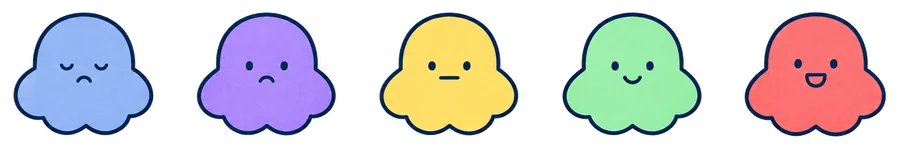
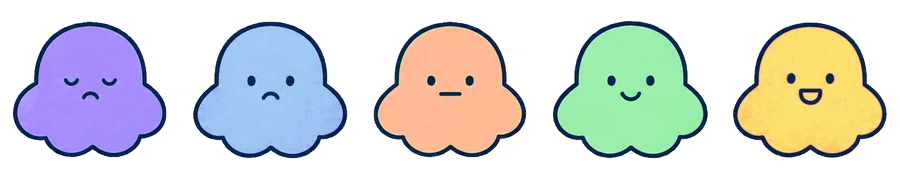
update color tokens: soft purple cards, peach history tile, five-color mood scale

diff --git a/resources/js/Pages/Dashboard.tsx b/resources/js/Pages/Dashboard.tsx
@@ -36,8 +36,8 @@ type ActionTileProps = {
 const TONES = {
   yellow: { card: 'bg-mood-yellow text-text', icon: 'bg-card text-primary', button: 'bg-primary text-on-primary' },
   green: { card: 'bg-mood-green text-text', icon: 'bg-card text-primary', button: 'bg-primary text-on-primary' },
-  brand: { card: 'bg-brand text-on-primary', icon: 'bg-on-primary/20 text-on-primary', button: 'bg-card text-primary' },
-  blue: { card: 'bg-mood-blue text-text', icon: 'bg-card text-primary', button: 'bg-primary text-on-primary' },
+  purple: { card: 'bg-brand-soft text-text', icon: 'bg-card text-primary', button: 'bg-primary text-on-primary' },
+  peach: { card: 'bg-mood-peach text-text', icon: 'bg-card text-primary', button: 'bg-primary text-on-primary' },
 } as const;
 
 /** Kartu aksi menuju fitur. Seluruh kartu adalah tautan. */
@@ -45,7 +45,10 @@ function ActionTile({ icon: Icon, title, description, href, tone }: ActionTilePr
   return (
     <Link
       href={href}
-      className={`group flex min-h-40 flex-col rounded-xl p-6 shadow-card transition-transform duration-200 focus-visible:outline-2 focus-visible:outline-offset-2 motion-safe:hover:-translate-y-0.5 ${tone.card}`}
+      data-load
+      data-lift
+      data-press
+      className={`group flex min-h-40 flex-col rounded-xl p-6 shadow-card focus-visible:outline-2 focus-visible:outline-offset-2 xl:min-h-44 ${tone.card}`}
     >
       <span className={`grid size-11 place-items-center rounded-full ${tone.icon}`} aria-hidden="true">
         <Icon className="size-5.5" />
@@ -74,17 +77,19 @@ function moodImage(mood: number): string {
 /** SCR-011 */
 export default function Dashboard({ first_name, last_mood, last_attempt }: DashboardProps) {
   return (
-    <AppShell title="Dashboard" showHelp={false}>
+    <AppShell title="Dashboard" showHelp={false} wide staggered>
       <div className="flex flex-wrap items-start justify-between gap-4">
-        <div>
+        <div data-load>
           <h1>Halo, {first_name}.</h1>
           <p className="mt-2 text-text-secondary">Apa yang ingin kamu lakukan hari ini?</p>
         </div>
-        <HelpPill className="hidden md:inline-flex" />
+        <div data-load="pop" className="hidden md:block">
+          <HelpPill />
+        </div>
       </div>
 
       <div className="mt-8 grid items-start gap-6 lg:grid-cols-12">
-        <div className="space-y-8 lg:col-span-7">
+        <div className="space-y-8 lg:col-span-7 xl:col-span-8">
           <div className="grid gap-4 sm:grid-cols-2">
             <ActionTile
               icon={ClipboardCheck}
@@ -105,18 +110,18 @@ export default function Dashboard({ first_name, last_mood, last_attempt }: Dashb
               title="RelaxMate"
               description="Teman bicara berbasis AI. Bukan psikolog atau layanan medis."
               href="/app/relaxmate"
-              tone={TONES.brand}
+              tone={TONES.purple}
             />
             <ActionTile
               icon={History}
               title="Riwayat"
               description="Lihat kembali hasil asesmen yang pernah kamu kerjakan."
               href="/app/riwayat"
-              tone={TONES.blue}
+              tone={TONES.peach}
             />
           </div>
 
-          <section aria-labelledby="judul-asesmen">
+          <section aria-labelledby="judul-asesmen" data-load>
             <div className="flex items-center justify-between gap-3">
               <h2 id="judul-asesmen" className="text-xl">
                 Hasil asesmen terakhir
@@ -134,6 +139,7 @@ export default function Dashboard({ first_name, last_mood, last_attempt }: Dashb
             {last_attempt ? (
               <Link
                 href={`/app/riwayat/${last_attempt.id}`}
+                data-lift
                 className={`${cardClass} mt-3 flex items-center gap-4 p-4 transition-shadow hover:shadow-popover`}
               >
                 <span className="grid size-28 shrink-0 place-items-center rounded-xl bg-neutral-soft" aria-hidden="true">
@@ -183,8 +189,8 @@ export default function Dashboard({ first_name, last_mood, last_attempt }: Dashb
           </section>
         </div>
 
-        <div className="space-y-4 lg:col-span-5">
-          <section aria-labelledby="judul-mood">
+        <div className="space-y-4 lg:col-span-5 xl:col-span-4">
+          <section aria-labelledby="judul-mood" data-load>
             <h2 id="judul-mood" className="text-xl">
               Mood terakhir
             </h2>
@@ -196,6 +202,7 @@ export default function Dashboard({ first_name, last_mood, last_attempt }: Dashb
                     width={160}
                     height={160}
                     alt=""
+                    data-float
                     className="size-40 object-contain"
                   />
                   <p className="mt-2 text-lg font-medium">
@@ -229,7 +236,7 @@ export default function Dashboard({ first_name, last_mood, last_attempt }: Dashb
             </div>
           </section>
 
-          <section aria-label="Bantuan" className="rounded-xl bg-crisis-bg p-5 text-crisis-text">
+          <section aria-label="Bantuan" data-load className="rounded-xl bg-crisis-bg p-5 text-crisis-text">
             <h2 className="text-base">Butuh bantuan sekarang?</h2>
             <p className="mt-1 text-sm">Kamu tidak harus menghadapi ini sendirian.</p>
             <a

diff --git a/resources/js/Components/shared/MoodChart.tsx b/resources/js/Components/shared/MoodChart.tsx
@@ -4,13 +4,13 @@ import { formatAverage, moodImage, moodLevel, MOOD_LABELS, type MoodDay, type Mo
 const HEIGHT = 220;
 const MARGIN = { top: 12, right: 14, bottom: 28, left: 40 };
 
-/** Warna titik per tingkat mood (token), selaras dengan blob di sumbu y. */
+/** Warna titik per tingkat mood (token skala `--mood-1` sampai `--mood-5`), selaras dengan blob; garis tepi gelap agar titik jelas di atas kartu putih. */
 const DOT_FILL: Record<number, string> = {
-  1: 'fill-mood-blue',
-  2: 'fill-brand',
-  3: 'fill-mood-yellow',
-  4: 'fill-mood-green',
-  5: 'fill-mood-red',
+  1: 'fill-mood-1',
+  2: 'fill-mood-2',
+  3: 'fill-mood-3',
+  4: 'fill-mood-4',
+  5: 'fill-mood-5',
 };
 const Y_VALUES = [1, 2, 3, 4, 5];
 
@@ -143,8 +143,8 @@ export function MoodRangeChart({ days, range, selectedDate, onSelectDay }: Range
                       cx={xScale(index)}
                       cy={yScale(day.average)}
                       r={selectedDate === day.date || hover === index ? 7 : 5.5}
-                      className={`${DOT_FILL[moodLevel(day.average)]} ${selectedDate === day.date ? 'stroke-text' : 'stroke-card'}`}
-                      strokeWidth={2.5}
+                      className={`${DOT_FILL[moodLevel(day.average)]} stroke-primary`}
+                      strokeWidth={selectedDate === day.date ? 3 : 1.75}
                     />
                   </g>
                 ) : null}
@@ -230,8 +230,8 @@ export function MoodDayChart({ label, entries }: DayChartProps) {
               cx={xScale(entry.minutes)}
               cy={yScale(entry.mood)}
               r={6}
-              className={`${DOT_FILL[entry.mood] ?? 'fill-brand-strong'} stroke-card`}
-              strokeWidth={2.5}
+              className={`${DOT_FILL[entry.mood] ?? 'fill-brand-strong'} stroke-primary`}
+              strokeWidth={1.75}
             />
           ))}
         </svg>

diff --git a/resources/css/app.css b/resources/css/app.css
@@ -47,7 +47,15 @@
     --color-on-primary: var(--on-primary);
     --color-brand: var(--brand);
     --color-brand-strong: var(--brand-strong);
+    --color-brand-soft: var(--brand-soft);
     --color-mood-blue: var(--mood-blue);
+    --color-mood-purple: var(--mood-purple);
+    --color-mood-peach: var(--mood-peach);
+    --color-mood-1: var(--mood-1);
+    --color-mood-2: var(--mood-2);
+    --color-mood-3: var(--mood-3);
+    --color-mood-4: var(--mood-4);
+    --color-mood-5: var(--mood-5);
     --color-mood-green: var(--mood-green);
     --color-mood-red: var(--mood-red);
     --color-mood-yellow: var(--mood-yellow);
@@ -85,10 +93,22 @@
     --on-primary: #FFFFFF;
     --brand: #7948FC;
     --brand-strong: #6A38EE;
-    --mood-blue: #A2B1EA;
+    /* Ungu muda untuk kartu dan lingkaran hias: teks di atasnya --text (bukan putih) */
+    --brand-soft: #C3B1FF;
+    /* Warna pastel (kartu dan hiasan); teks di atasnya selalu --text */
+    --mood-blue: #9CCBF2;
     --mood-green: #ABEAA2;
     --mood-red: #FC6663;
     --mood-yellow: #FCE46F;
+    --mood-purple: #A98BFF;
+    --mood-peach: #FFB997;
+    /* Skala mood 1 (Sangat sedih) sampai 5 (Luar biasa). Ganti pemetaan warna skala HANYA di sini.
+       Gambar blob di public/images/mood ikut diwarnai ulang secara terpisah. */
+    --mood-1: var(--mood-purple);
+    --mood-2: var(--mood-blue);
+    --mood-3: var(--mood-peach);
+    --mood-4: var(--mood-green);
+    --mood-5: var(--mood-yellow);
     --success: #047857;
     --warning: #B45309;
     --danger: #DC2626;

diff --git a/resources/views/public/tentang.blade.php b/resources/views/public/tentang.blade.php
@@ -57,7 +57,7 @@
                 </p>
             </div>
 
-            <figure data-reveal="right" class="flex min-h-48 flex-col justify-between rounded-xl bg-brand p-8 text-on-primary shadow-card lg:p-10">
+            <figure data-reveal="right" class="flex min-h-48 flex-col justify-between rounded-xl bg-brand-soft p-8 text-text shadow-card lg:p-10">
                 <svg class="size-6 fill-mood-yellow" viewBox="0 0 24 24" aria-hidden="true"><path d="M12 2l1.8 6.5L20 10l-6.2 1.5L12 18l-1.8-6.5L4 10l6.2-1.5z"/></svg>
                 <blockquote class="mt-6 text-2xl leading-snug font-semibold">
                     &ldquo;Kamu yang memegang kendali, bukan stres.&rdquo;
@@ -89,7 +89,7 @@
                         <p class="mt-2 text-center">Catat perasaanmu dari hari ke hari dan lihat polanya.</p>
                     </div>
                 </article>
-                <article data-item data-lift class="flex flex-col gap-5 rounded-xl bg-brand p-5 text-on-primary shadow-card transition-shadow duration-300 hover:shadow-popover lg:p-6">
+                <article data-item data-lift class="flex flex-col gap-5 rounded-xl bg-brand-soft p-5 text-text shadow-card transition-shadow duration-300 hover:shadow-popover lg:p-6">
                     <div class="mx-auto grid size-44 place-items-center overflow-hidden rounded-full bg-card">
                         <img src="{{ $img }}/robot-wave.webp" width="800" height="800" loading="lazy" alt="" data-tilt="-4" class="size-36 object-contain">
                     </div>
@@ -110,7 +110,7 @@
                 <p class="text-4xl font-semibold" aria-hidden="true">Relax</p>
                 <p class="mt-3 text-lg"><span class="font-semibold">&ldquo;Relax&rdquo;</span> adalah ajakan untuk tenang.</p>
             </article>
-            <article data-item data-lift class="flex min-h-52 flex-col items-center justify-center rounded-xl bg-brand p-8 text-center text-on-primary shadow-card transition-shadow duration-300 hover:shadow-popover lg:p-10">
+            <article data-item data-lift class="flex min-h-52 flex-col items-center justify-center rounded-xl bg-brand-soft p-8 text-center text-text shadow-card transition-shadow duration-300 hover:shadow-popover lg:p-10">
                 <p class="text-4xl font-semibold" aria-hidden="true">Boss</p>
                 <p class="mt-3 text-lg"><span class="font-semibold">&ldquo;Boss&rdquo;</span> mengingatkan bahwa kamulah yang memegang kendali atas stresmu.</p>
             </article>
@@ -134,7 +134,7 @@
                     <p class="mt-2 text-text-secondary">Isi catatan dan percakapanmu dienkripsi, dan tinjauan kualitas dilakukan tanpa identitasmu.</p>
                 </article>
                 <article data-item data-lift class="rounded-xl bg-card p-5 shadow-card transition-shadow duration-300 hover:shadow-popover lg:p-6">
-                    <span class="grid size-10 place-items-center rounded-full bg-brand text-on-primary" aria-hidden="true"><x-icon name="message-circle" class="size-5" /></span>
+                    <span class="grid size-10 place-items-center rounded-full bg-brand-soft text-text" aria-hidden="true"><x-icon name="message-circle" class="size-5" /></span>
                     <h3 class="mt-4">Jalur ke profesional</h3>
                     <p class="mt-2 text-text-secondary">Selalu ada arahan dan kontak bantuan bila kamu butuh pendampingan lebih lanjut.</p>
                 </article>

diff --git a/resources/views/public/beranda.blade.php b/resources/views/public/beranda.blade.php
@@ -60,7 +60,7 @@
                     <p class="mt-2 text-center">Catat perasaanmu dan lihat polanya dalam seminggu.</p>
                 </div>
             </article>
-            <article data-item data-lift class="flex flex-col gap-5 rounded-xl bg-brand p-5 text-on-primary shadow-card transition-shadow duration-300 hover:shadow-popover lg:p-6">
+            <article data-item data-lift class="flex flex-col gap-5 rounded-xl bg-brand-soft p-5 text-text shadow-card transition-shadow duration-300 hover:shadow-popover lg:p-6">
                 <div class="mx-auto grid size-44 place-items-center overflow-hidden rounded-full bg-card">
                     <img src="{{ $img }}/robot-wave.webp" width="800" height="800" loading="lazy" alt="" data-tilt="-4" class="size-36 object-contain">
                 </div>
@@ -87,7 +87,7 @@
                         <div><h3>Kenali kondisimu</h3><p class="text-text-secondary">Kerjakan asesmen dan catat mood harianmu.</p></div>
                     </li>
                     <li data-item class="flex items-start gap-4 rounded-xl bg-card p-4 shadow-card transition duration-300 hover:translate-x-1 hover:shadow-popover">
-                        <span class="grid size-10 shrink-0 place-items-center rounded-full bg-brand font-semibold text-on-primary" aria-hidden="true">3</span>
+                        <span class="grid size-10 shrink-0 place-items-center rounded-full bg-brand-soft font-semibold text-text" aria-hidden="true">3</span>
                         <div><h3>Bercerita kapan saja</h3><p class="text-text-secondary">RelaxMate siap mendengarkan, kapan pun kamu butuh.</p></div>
                     </li>
                 </ol>
@@ -133,7 +133,7 @@
                     <p class="mt-2 text-text-secondary">Isi catatan dan percakapanmu dienkripsi, dan tinjauan kualitas dilakukan tanpa identitasmu.</p>
                 </article>
                 <article data-item data-lift class="rounded-xl bg-card p-5 shadow-card transition-shadow duration-300 hover:shadow-popover lg:p-6">
-                    <span class="block size-10 rounded-full bg-brand" aria-hidden="true"></span>
+                    <span class="block size-10 rounded-full bg-brand-soft" aria-hidden="true"></span>
                     <h3 class="mt-4">Jalur ke profesional</h3>
                     <p class="mt-2 text-text-secondary">Selalu ada arahan dan kontak bantuan bila kamu butuh pendampingan lebih lanjut.</p>
                 </article>

diff --git a/resources/views/public/konsultasi.blade.php b/resources/views/public/konsultasi.blade.php
@@ -7,7 +7,7 @@
     @php
         $img = asset('images/konsultasi');
         // Urutan warna kuning, hijau, ungu mengikuti kartu fitur Beranda (Design 7, SCR-001).
-        $circles = ['bg-mood-yellow text-text', 'bg-mood-green text-text', 'bg-brand text-on-primary'];
+        $circles = ['bg-mood-yellow text-text', 'bg-mood-green text-text', 'bg-brand-soft text-text'];
         // Butir ini bukan urutan langkah, jadi tanpa nomor.
         $signs = [
             ['icon' => 'moon', 'text' => 'Rasa tertekan berlangsung berminggu-minggu dan mengganggu kuliah, tidur, atau makanmu.'],

diff --git a/resources/views/public/asesmen-detail.blade.php b/resources/views/public/asesmen-detail.blade.php
@@ -7,7 +7,7 @@
     @php
         $img = asset('images/asesmen');
         // Urutan warna kuning, hijau, ungu mengikuti kartu fitur Beranda (Design 7, SCR-001).
-        $circles = ['bg-mood-yellow text-text', 'bg-mood-green text-text', 'bg-brand text-on-primary'];
+        $circles = ['bg-mood-yellow text-text', 'bg-mood-green text-text', 'bg-brand-soft text-text'];
     @endphp
 
     {{-- Kepala --}}

diff --git a/resources/views/components/legal-section.blade.php b/resources/views/components/legal-section.blade.php
@@ -3,7 +3,7 @@
     // Urutan warna kuning, hijau, ungu mengikuti kartu fitur Beranda (Design 7, SCR-001).
     $circle = match ($tone) {
         'green' => 'bg-mood-green text-text',
-        'brand' => 'bg-brand text-on-primary',
+        'brand' => 'bg-brand-soft text-text',
         default => 'bg-mood-yellow text-text',
     };
 @endphp

diff --git a/resources/views/public/asesmen-index.blade.php b/resources/views/public/asesmen-index.blade.php
@@ -10,7 +10,7 @@
         $accents = [
             ['circle' => 'bg-mood-yellow text-text'],
             ['circle' => 'bg-mood-green text-text'],
-            ['circle' => 'bg-brand text-on-primary'],
+            ['circle' => 'bg-brand-soft text-text'],
         ];
     @endphp
 
